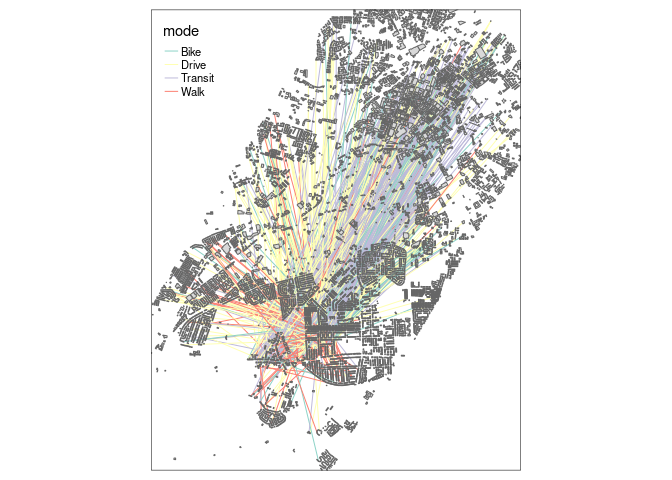
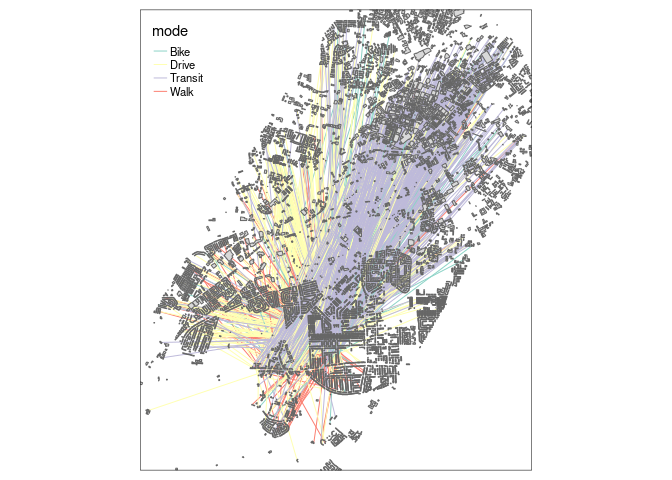
Update readme

Changed region(s): [[0.2188, 0.0, 0.8125, 1.0], [0.2188, 0.0312, 0.3125, 0.2188], [0.2188, 0.8438, 0.25, 0.875]]

diff --git a/README.md b/README.md
@@ -364,6 +364,7 @@ desire_lines_abst = desire_lines %>%
          Transit = light_rail + train + bus)
 
 
+set.seed(2050)
 desire_lines_disaggregated = abstr::ab_scenario(desire_lines_abst, zones = zones,
                                                   subpoints = osm_data_polygons_region)
 #> Warning in st_centroid.sf(subpoints): st_centroid assumes attributes are
@@ -376,7 +377,6 @@ desire_lines_disaggregated = abstr::ab_scenario(desire_lines_abst, zones = zones
 #>  points not in od data removed.
 
 desire_lines_disaggregated %>% 
- sample_n(1000) %>% 
  tm_shape() +
   tm_lines("mode") +
   qtm(osm_data_polygons_region)
@@ -391,6 +391,7 @@ desire_lines_abst = desire_lines_go_active %>%
   transmute(o = geo_code1, d = geo_code2, all, Walk = foot, Bike = bicycle, Drive = car_driver,
          Transit = light_rail + train + bus)
 
+set.seed(2050)
 desire_lines_disaggregated = abstr::ab_scenario(desire_lines_abst, zones = zones,
                                                   subpoints = osm_data_polygons_region)
 #> Warning in st_centroid.sf(subpoints): st_centroid assumes attributes are
@@ -403,7 +404,6 @@ desire_lines_disaggregated = abstr::ab_scenario(desire_lines_abst, zones = zones
 #>  points not in od data removed.
 
 desire_lines_disaggregated %>% 
- sample_n(1000) %>% 
  tm_shape() +
   tm_lines("mode") +
   qtm(osm_data_polygons_region)
